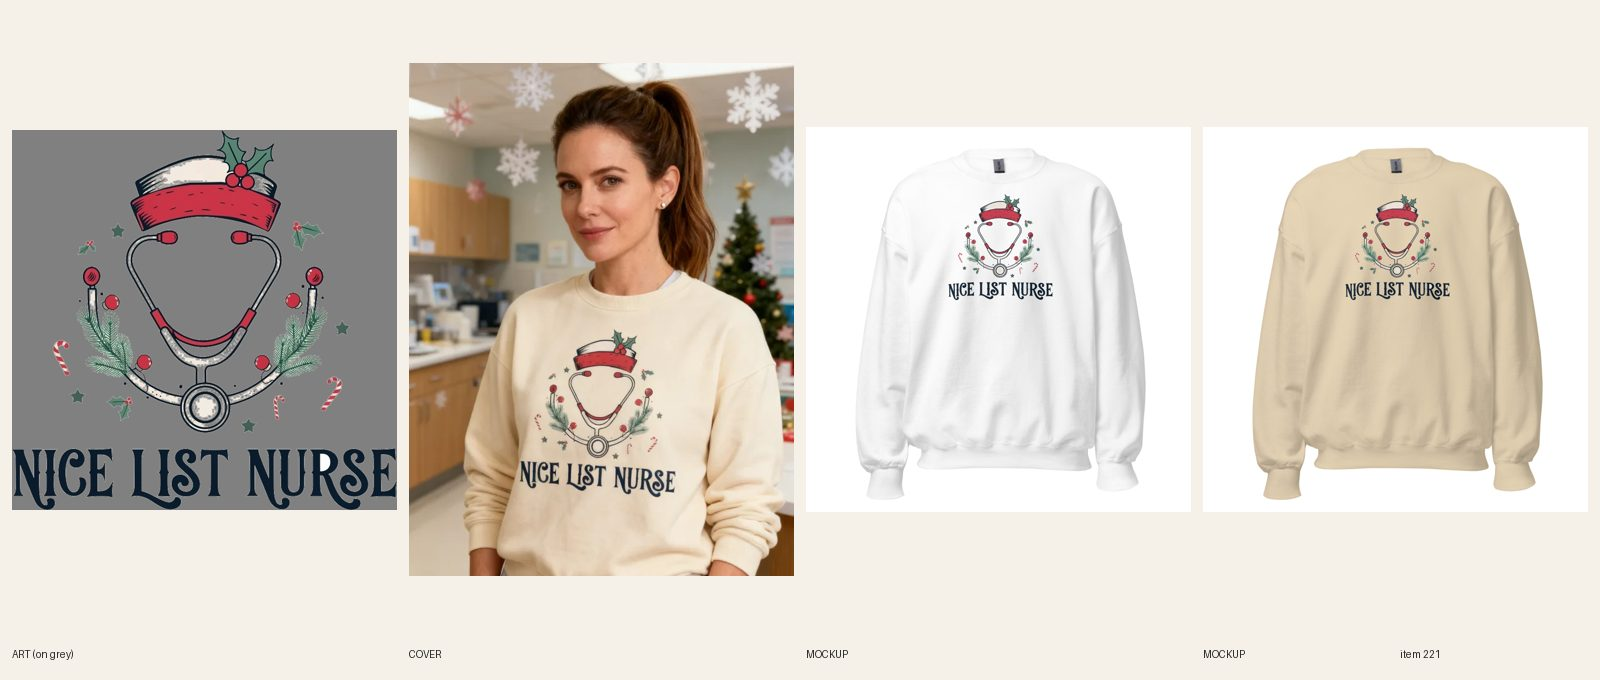
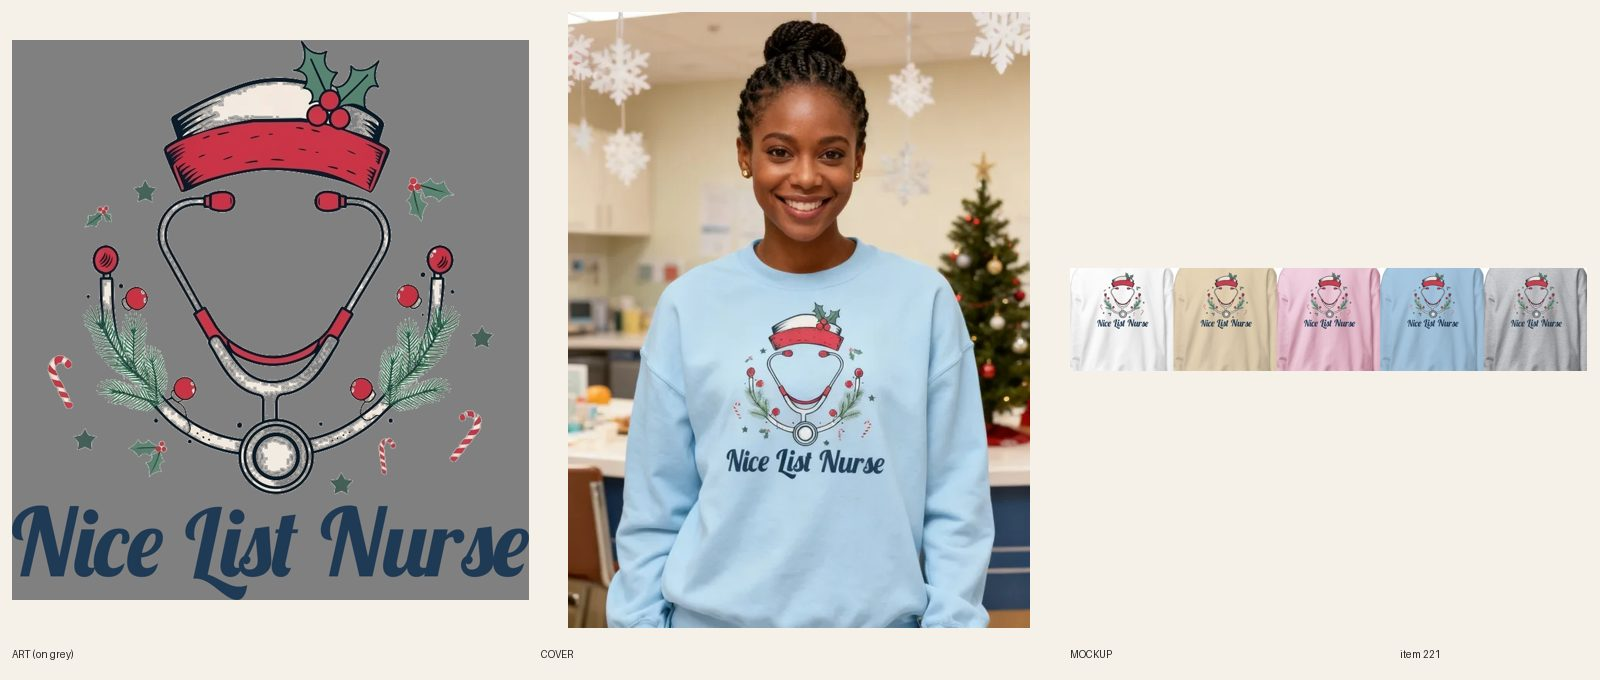
[A] 221 nurse crewneck redo built (resync running)

diff --git a/src/data/covers.ts b/src/data/covers.ts
@@ -227,7 +227,7 @@ export const covers: Record<string, { src: string; alt: string }> = {
     'womens-christmas-o-holy-night-crewneck-sweatshirt': { src: '/covers/womens-christmas-o-holy-night-crewneck-sweatshirt.webp', alt: 'Woman in her late 30s with wavy chestnut hair and pearl earrings in a navy O Holy Night crewneck sweatshirt on the snowy steps of a small white church at night' },
   'womens-christmas-lit-up-bow-crewneck-sweatshirt': { src: '/covers/womens-christmas-lit-up-bow-crewneck-sweatshirt.webp', alt: 'Woman in her mid 20s with long dark curls and a gold necklace in a navy All Lit Up bow crewneck sweatshirt in a living room with a lit Christmas tree and bow-topped gifts, hands in her pockets' },
   'unisex-horror-night-shift-oversized-hoodie': { src: '/covers/unisex-horror-night-shift-oversized-hoodie.webp', alt: 'Man and woman in matching black Night Shift oversized hoodies outside a neon-lit small-town movie theater at night' },
-  'womens-christmas-christmas-nurse-crewneck-sweatshirt': { src: '/covers/womens-christmas-christmas-nurse-crewneck-sweatshirt.webp', alt: 'Woman in her mid 30s with brown hair in a high ponytail and stud earrings in a cream Nice List Nurse Christmas crewneck sweatshirt in a hospital break room decorated with paper snowflakes and a small tree' },
+    'womens-christmas-christmas-nurse-crewneck-sweatshirt': { src: '/covers/womens-christmas-christmas-nurse-crewneck-sweatshirt.webp', alt: 'Woman in her early 30s with braids in a high bun and gold studs in a light blue Nice List Nurse Christmas crewneck sweatshirt in a hospital break room with paper snowflakes and a small tree' },
   'womens-christmas-merry-woofmas-crewneck-sweatshirt': { src: '/covers/womens-christmas-merry-woofmas-crewneck-sweatshirt.webp', alt: 'Woman in her late 30s with shoulder-length dark hair and a side part in a cream Merry Woofmas crewneck sweatshirt beside a lit Christmas tree with a golden doodle at her feet' },
   'womens-christmas-candy-cane-club-crewneck-sweatshirt': { src: '/covers/womens-christmas-candy-cane-club-crewneck-sweatshirt.webp', alt: 'Woman in her early 30s with a long high ponytail and a red velvet bow in a cream Candy Cane Club crewneck sweatshirt at a Christmas market candy stall, shopping bag at her hip' },
   'womens-cropped-ghost-club-cropped-hoodie': { src: '/covers/womens-cropped-ghost-club-cropped-hoodie.webp', alt: 'Woman in a black Ghost Club cropped hoodie in a campus coffee shop with fall leaves outside the window' },

diff --git a/docs/pipeline/221-christmas-christmas-nurse-crewneck.md b/docs/pipeline/221-christmas-christmas-nurse-crewneck.md
@@ -1,4 +1,4 @@
-status: REDO
+status: BUILDING [A] 2026-10-17 21:00 UTC
 lane: A
 type: twin
 id: 221
@@ -23,3 +23,4 @@ handle: womens-christmas-christmas-nurse-crewneck-sweatshirt
 - 2026-10-17 00:16 UTC director: REDO.
   1. R6.2 / R3.7.6: NICE LIST NURSE is a typeset Victorian display serif (identical letterforms, even spacing). Re-letter it by hand with one lettering-only Recraft generation composed in print-prep (the #234 method), keep it about the same width, check spelling, knock out letter counters, check on White, Sand and Light Blue, re-link, new mockups.
   2. R6.7: new cover after the art change (the cover must show the exact print). The live tee keeps its art (R3.9).
+- 2026-10-17 21:00 UTC builder [A] REDO 221: art kept (cap, stethoscope, pine, candy canes: no ring/disc/frame, only planned cream ink); the typeset NICE LIST NURSE line cut off and re-set as Lobster script, navy #1f3a55, 3222 px wide (no closed counters of note). New file 3222x3489 (Printful 1088449438), FW 1650 TOP 75 (about 11.9 in tall). Mockups checked on White, Sand, Light Pink, Light Blue, Sport Grey (reads on all). New cover (shows the new lettering): woman reg 806, Light Blue crewneck, break room with snowflakes and tree, no stethoscope on her, 1 attempt. Copy: lettering sentence fixed (navy script, not tall navy letters), FAQ 5 x 40-60 words incl. Dec 8. Resync 30 variants running (FORCE): REVIEW at 30/30. fal ~$0.04.

diff --git a/docs/model-registry.md b/docs/model-registry.md
@@ -587,3 +587,4 @@ Rows 11–43 were re-pointed on 2026-10-08 when the briefs were rewritten from d
 | 803 | Korean-American woman, late 20s, sleek black bob with wispy bangs, small pearl studs | USED 2026-10-17 — #216 Hello Winter hoodie cover redo (seedream, 1 attempt) |
 | 804 | Native Hawaiian woman, early 30s, long dark hair in a single braid, small gold hoops, tan cowboy hat | USED 2026-10-17 — #217 Ho Ho Howdy hoodie cover redo (seedream, 2 attempts: try 1 hair covered the first H; try 2 kept, braid just touches the H edge, Santa's face soft) |
 | 805 | Colombian woman, late 30s, shoulder-length wavy chestnut hair, small pearl earrings | USED 2026-10-17 — #219 O Holy Night crewneck cover redo (seedream, 1 attempt) |
+| 806 | Nigerian-American woman, early 30s, braids in a high bun, small gold studs | USED 2026-10-17 — #221 Christmas Nurse crewneck cover redo (seedream, 1 attempt) |
